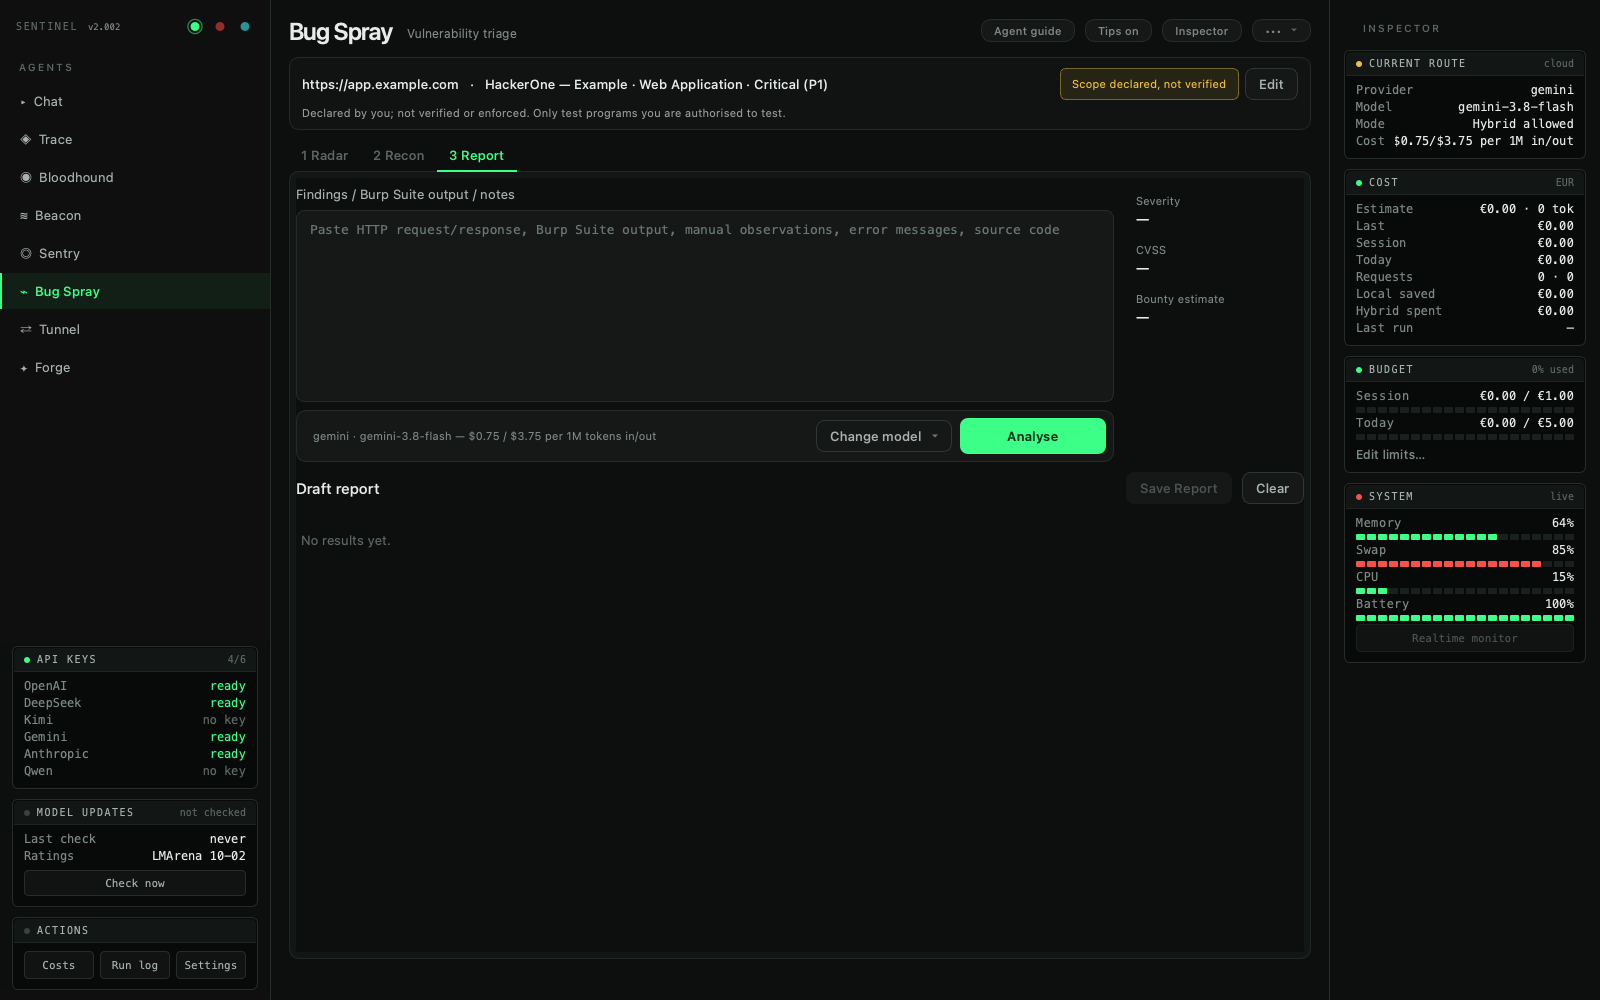
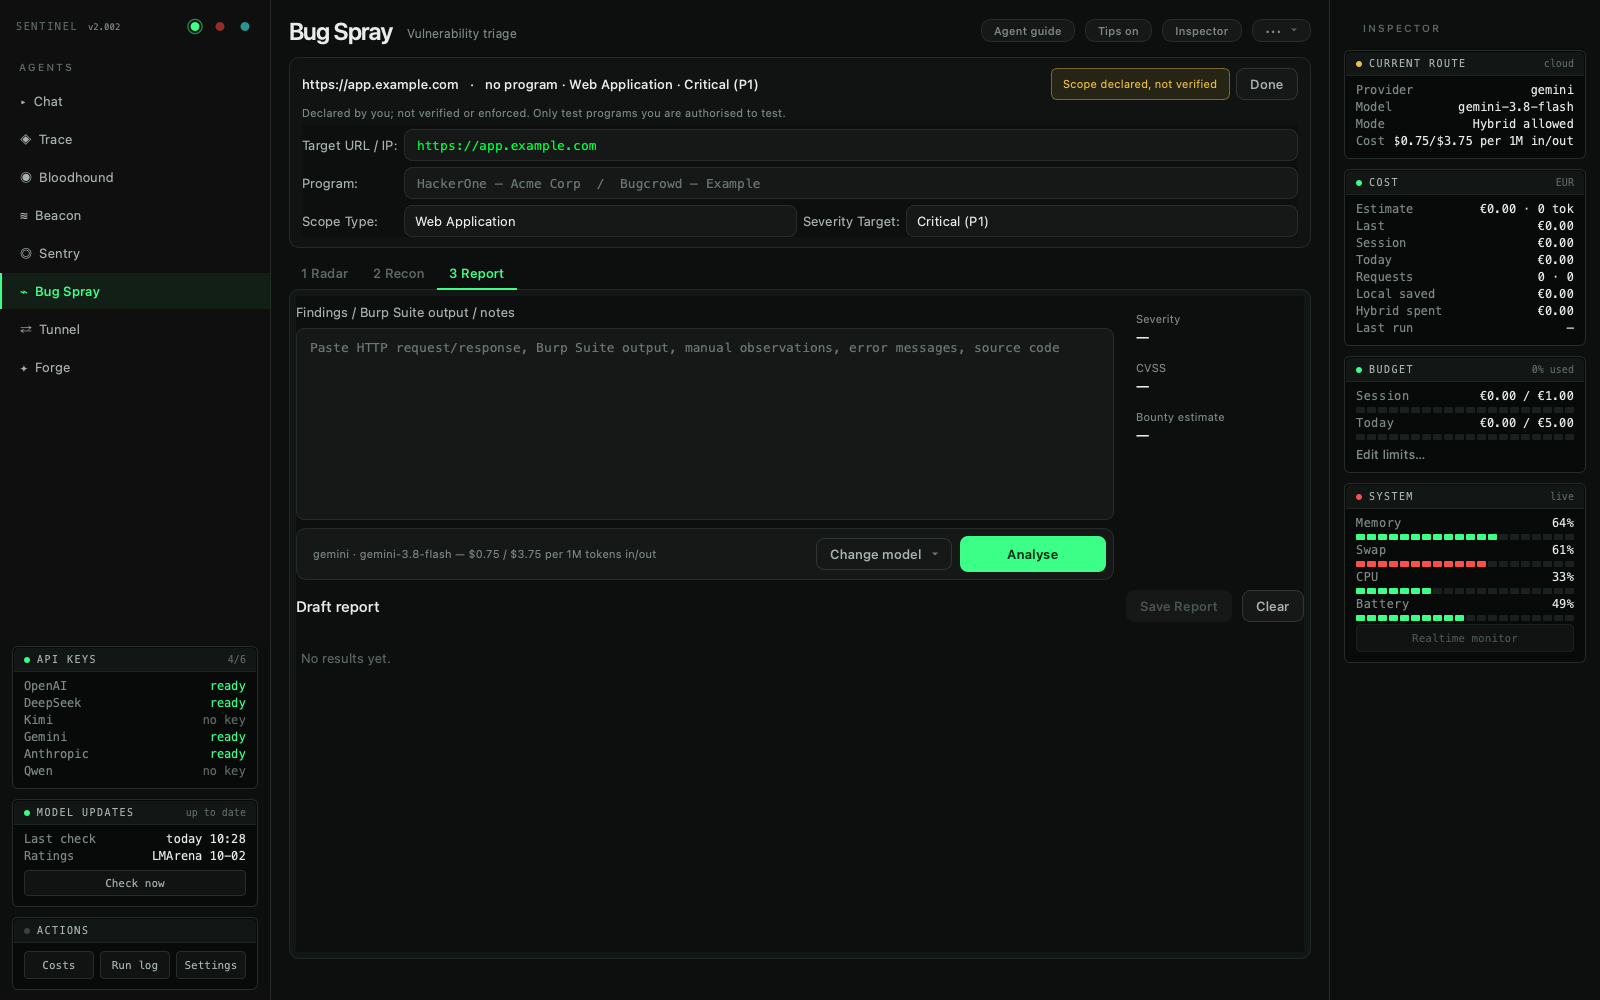
Bug Spray: compact empty target bar, Radar lists fill the tab on whole rows, one frame, neutral Edit/Done
GUI review 2026-11-23 (relayed from the review session at the owner's request).

drafted-by: claude-opus-5-5
verified-by: full pytest suite green; mutation checks on fold and Done style

diff --git a/tests/test_bug_spray_layout.py b/tests/test_bug_spray_layout.py
@@ -47,7 +47,7 @@ def spray(win):
     panel.target_input.clear()
     panel.program_input.clear()
     panel.steps.setCurrentIndex(0)
-    panel.edit_target_btn.setChecked(True)
+    panel.edit_target_btn.setChecked(False)
 
 
 def test_steps_hold_radar_recon_and_report(spray):
@@ -87,14 +87,50 @@ def test_summary_line_follows_the_fields(spray):
     assert spray.target_summary.text().startswith("No target yet")
 
 
-def test_edit_opens_and_closes_the_fields(spray):
-    assert spray.edit_target_btn.isChecked()        # opens expanded: nothing declared
-    assert spray.target_editor.isVisibleTo(spray)
-    spray.edit_target_btn.setChecked(False)
-    assert not spray.target_editor.isVisibleTo(spray)
+def test_empty_target_shows_only_the_target_field(spray):
+    """Compact empty state (GUI review 2026-11-23): one field, not the form."""
+    assert spray.target_bar_state() == "quick"
+    assert spray.target_input.isVisibleTo(spray)
+    for widget in (spray.program_input, spray.scope_box, spray.severity_box):
+        assert not widget.isVisibleTo(spray)
     assert spray.edit_target_btn.text() == "Edit"
-    # Collapsed, the badge and the one-line note stay visible.
+
+
+def test_entering_a_target_folds_the_bar_to_one_line(spray):
+    spray.target_input.setText("https://app.example.com")
+    spray.target_input.editingFinished.emit()
+    assert spray.target_bar_state() == "summary"
+    assert not spray.target_editor.isVisibleTo(spray)
+    assert "https://app.example.com" in spray.target_summary.text()
+    # Folded, the badge and the one-line note stay visible.
     assert spray.scope_badge.isVisibleTo(spray) and spray.scope_note.isVisibleTo(spray)
+
+
+def test_edit_opens_the_whole_form_and_done_closes_it(spray):
+    spray.target_input.setText("https://app.example.com")
+    spray.edit_target_btn.setChecked(True)
+    assert spray.target_bar_state() == "editing"
+    for widget in (spray.target_input, spray.program_input, spray.scope_box,
+                   spray.severity_box):
+        assert widget.isVisibleTo(spray)
+    assert spray.edit_target_btn.text() == "Done"
+    spray.edit_target_btn.setChecked(False)
+    assert spray.target_bar_state() == "summary"
+    # Done with the target cleared: back to the one-field empty state.
+    spray.edit_target_btn.setChecked(True)
+    spray.target_input.clear()
+    spray.edit_target_btn.setChecked(False)
+    assert spray.target_bar_state() == "quick"
+
+
+def test_done_is_not_styled_like_a_primary(spray, win):
+    """Checked, Edit/Done keeps the neutral look; green is for the primary."""
+    spray.edit_target_btn.setChecked(True)
+    assert spray.edit_target_btn.objectName() == "BBEditTarget"
+    sheet = win.styleSheet() or QApplication.instance().styleSheet()
+    block = sheet[sheet.index("QPushButton#BBEditTarget:checked {"):]
+    block = block[:block.index("}")]
+    assert "#3cff88" not in block.lower()
 
 
 def test_scope_warning_keeps_every_fact(spray):
@@ -141,42 +177,60 @@ def test_picking_a_program_on_the_radar_fills_the_program_field(spray):
     assert "Bugcrowd — Example" in spray.target_summary.text()
 
 
+def _fill(feed):
+    for tree in (feed.changes, feed.programs):
+        if tree.topLevelItemCount() == 0:
+            for n in range(40):
+                tree.addTopLevelItem(QTreeWidgetItem([f"row {n}", "x", "y"]))
+
+
 def test_recent_changes_shows_whole_rows_only(spray, win):
     """Six full rows and a seventh cut in half (GUI review 2026-11-22)."""
     win.resize(1600, 1000)
     win.select_agent("bug_bounty")
     feed = spray.program_feed
-    for tree in (feed.changes, feed.programs):
-        if tree.topLevelItemCount() == 0:
-            for n in range(12):
-                tree.addTopLevelItem(QTreeWidgetItem([f"row {n}", "x", "y"]))
+    _fill(feed)
     feed._fit_whole_rows()
     for tree in (feed.changes, feed.programs):
         row = tree.sizeHintForRow(0)
-        visible = tree.height() - feed._chrome_height(tree)
-        assert visible == feed.VISIBLE_ROWS * row, (tree, visible, row)
+        visible = tree.maximumHeight() - feed._chrome_height(tree)
+        assert visible % row == 0 and visible >= feed.MIN_ROWS * row, (tree, visible, row)
 
 
-def test_shown_tree_viewport_is_whole_rows(win):
-    """Measured on screen: the viewport itself, not a computed figure."""
+def test_shown_tree_viewport_is_whole_rows_and_fills_the_tab(win):
+    """Measured on screen: whole rows, and the list takes the tab's height
+    (less than one row left below it) instead of leaving a third empty."""
     win.resize(1600, 1000)
     win.show()
     try:
         win.select_agent("bug_bounty")
         feed = win.panels["bug_bounty"].program_feed
         win.panels["bug_bounty"].steps.setCurrentIndex(0)
+        _fill(feed)
         for _ in range(10):
             QApplication.processEvents()
-        tree = feed.changes
-        if tree.topLevelItemCount() == 0:
-            for n in range(12):
-                tree.addTopLevelItem(QTreeWidgetItem([f"row {n}", "x", "y"]))
         feed._fit_whole_rows()
         for _ in range(5):
             QApplication.processEvents()
-        assert tree.viewport().height() == feed.VISIBLE_ROWS * tree.sizeHintForRow(0)
+        tree = feed.changes
+        row = tree.sizeHintForRow(0)
+        assert tree.viewport().height() % row == 0
+        page = tree.parentWidget()
+        assert page.height() - tree.height() < row
+        assert tree.viewport().height() // row > feed.VISIBLE_ROWS
+        # Shrinking the window re-fits to fewer whole rows.
+        win.resize(1600, 800)
+        for _ in range(10):
+            QApplication.processEvents()
+        assert tree.viewport().height() % row == 0
+        assert page.height() - tree.height() < row
     finally:
         win.hide()
+
+
+def test_radar_has_no_second_frame_or_title(spray):
+    feed = spray.program_feed
+    assert feed.title() == "" and feed.isFlat()
 
 
 def test_fit_is_redone_after_refresh(spray, monkeypatch):

diff --git a/ui/panels/bug_spray_feed.py b/ui/panels/bug_spray_feed.py
@@ -188,14 +188,29 @@ class WatchlistDialog(QDialog):
         self.accept()
 
 
+class _RowFitPage(QWidget):
+    """A list's tab page: re-fits the list to whole rows when resized."""
+
+    def __init__(self, feed: "BugSprayFeed"):
+        super().__init__()
+        self._feed = feed
+
+    def resizeEvent(self, event) -> None:
+        super().resizeEvent(event)
+        self._feed._fit_whole_rows()
+
+
 class BugSprayFeed(QGroupBox):
     """Shows saved programs and changes; only `scan` uses a child process."""
 
     program_selected = Signal(str)
 
     def __init__(self, parent: QWidget | None = None):
-        super().__init__("Program radar", parent)
+        # No title or frame: the feed is the whole "1 Radar" tab, whose own
+        # frame and label already say what it is (GUI review 2026-11-23).
+        super().__init__("", parent)
         self.setObjectName("BugSprayFeed")
+        self.setFlat(True)
         self._started = False
         self._last_scan: dict | None = None
         self._settings = config.load()
@@ -254,7 +269,7 @@ class BugSprayFeed(QGroupBox):
         self.changes.header().setSectionResizeMode(2, QHeaderView.Stretch)
         self.changes.currentItemChanged.connect(self._selected)
         self.changes.itemDoubleClicked.connect(lambda *_: self.show_details())
-        self.tabs.addTab(self.changes, "Recent changes")
+        self.tabs.addTab(self._row_fit_page(self.changes), "Recent changes")
         self.programs = QTreeWidget()
         self.programs.setHeaderLabels(["Program", "Platform", "Reward", "Scope"])
         self.programs.setRootIsDecorated(False)
@@ -263,8 +278,8 @@ class BugSprayFeed(QGroupBox):
             self.programs.header().setSectionResizeMode(column, QHeaderView.ResizeToContents)
         self.programs.currentItemChanged.connect(self._selected)
         self.programs.itemDoubleClicked.connect(lambda *_: self.show_details())
-        self.tabs.addTab(self.programs, "Programs")
-        layout.addWidget(self.tabs)
+        self.tabs.addTab(self._row_fit_page(self.programs), "Programs")
+        layout.addWidget(self.tabs, 1)
 
         self.details = QTextBrowser()
         self.details.setOpenExternalLinks(False)
@@ -287,13 +302,22 @@ class BugSprayFeed(QGroupBox):
         actions.addWidget(self.use_button)
         actions.addStretch()
         layout.addLayout(actions)
-        layout.addStretch(1)
-        # The feed has its own "1 Radar" tab now, so no height cap; the lists
-        # instead show a whole number of rows (no row cut through the middle).
+        # The lists stretch to fill the tab but stop on a whole row (no row
+        # cut through the middle); the remainder, under one row, stays below.
         self.changes.setHorizontalScrollBarPolicy(Qt.ScrollBarAlwaysOff)
         self._fit_whole_rows()
 
-    VISIBLE_ROWS = 8
+    VISIBLE_ROWS = 8   # used until the page has a laid-out height
+    MIN_ROWS = 3
+
+    def _row_fit_page(self, tree: QTreeWidget) -> QWidget:
+        page = _RowFitPage(self)
+        page_layout = QVBoxLayout(page)
+        page_layout.setContentsMargins(0, 0, 0, 0)
+        page_layout.setSpacing(0)
+        page_layout.addWidget(tree, 1)      # takes the height, up to its cap
+        page_layout.addStretch(0)           # the remainder, under one row
+        return page
 
     def _row_height(self, tree: QTreeWidget) -> int:
         if tree.topLevelItemCount():
@@ -313,19 +337,30 @@ class BugSprayFeed(QGroupBox):
         header = max(tree.header().sizeHint().height(), margins.top())
         return header + margins.bottom() + 2 * tree.frameWidth()
 
+    def _rows_that_fit(self, tree: QTreeWidget, chrome: int, row: int) -> int:
+        page = tree.parentWidget()
+        if page is None or not page.isVisible() or page.height() <= 0:
+            return self.VISIBLE_ROWS
+        return max(self.MIN_ROWS, (page.height() - chrome) // row)
+
     def _fit_whole_rows(self) -> None:
-        """Size each list to its header plus VISIBLE_ROWS full rows.
+        """Size each list to its header plus as many full rows as its tab
+        page has room for (at least MIN_ROWS).
 
         Row height is only final once the style sheet has polished the items,
-        so this runs again after the feed is shown, and measures the chrome
-        (header, frame, margins) from the laid-out widget when it can.
+        so this runs again after the feed is shown and whenever a page is
+        resized, and measures the chrome (header, frame, margins) from the
+        laid-out widget when it can. A maximum, not a fixed height, so the
+        window can still shrink.
         """
         for tree in (self.changes, self.programs):
             if tree.isVisible() and tree.viewport().height() > 0:
                 chrome = tree.height() - tree.viewport().height()
             else:
                 chrome = self._chrome_height(tree)
-            tree.setFixedHeight(chrome + self.VISIBLE_ROWS * self._row_height(tree))
+            row = self._row_height(tree)
+            tree.setMinimumHeight(chrome + self.MIN_ROWS * row)
+            tree.setMaximumHeight(chrome + self._rows_that_fit(tree, chrome, row) * row)
 
     def showEvent(self, event) -> None:
         super().showEvent(event)

diff --git a/ui/panels/bug_bounty.py b/ui/panels/bug_bounty.py
@@ -171,6 +171,7 @@ class BugBountyPanel(AgentPanel):
         self.scope_badge.setToolTip(self.SCOPE_NOTE)
         summary_row.addWidget(self.scope_badge)
         self.edit_target_btn = QPushButton("Edit")
+        self.edit_target_btn.setObjectName("BBEditTarget")
         self.edit_target_btn.setCheckable(True)
         self.edit_target_btn.toggled.connect(self._set_target_editing)
         summary_row.addWidget(self.edit_target_btn)
@@ -197,12 +198,14 @@ class BugBountyPanel(AgentPanel):
         self.target_input.setPlaceholderText("https://target.example.com  or  10.0.0.1")
         setup_layout.addWidget(self.target_input, 0, 1, 1, 3)
 
-        setup_layout.addWidget(QLabel("Program:"), 1, 0)
+        program_label = QLabel("Program:")
+        setup_layout.addWidget(program_label, 1, 0)
         self.program_input = QLineEdit()
         self.program_input.setPlaceholderText("HackerOne — Acme Corp  /  Bugcrowd — Example")
         setup_layout.addWidget(self.program_input, 1, 1, 1, 3)
 
-        setup_layout.addWidget(QLabel("Scope Type:"), 2, 0)
+        scope_label = QLabel("Scope Type:")
+        setup_layout.addWidget(scope_label, 2, 0)
         self.scope_box = MenuComboBox()
         self.scope_box.addItems([
             "Web Application", "API / REST", "Mobile (Android)", "Mobile (iOS)",
@@ -210,13 +213,17 @@ class BugBountyPanel(AgentPanel):
         ])
         setup_layout.addWidget(self.scope_box, 2, 1)
 
-        setup_layout.addWidget(QLabel("Severity Target:"), 2, 2)
+        severity_label = QLabel("Severity Target:")
+        setup_layout.addWidget(severity_label, 2, 2)
         self.severity_box = MenuComboBox()
         self.severity_box.addItems(
             ["Critical (P1)", "High (P2)", "Medium (P3)", "Low (P4)", "Informational"])
         setup_layout.addWidget(self.severity_box, 2, 3)
         setup_layout.setColumnStretch(1, 1)
         setup_layout.setColumnStretch(3, 1)
+        # Shown by Edit only; the empty state asks for the target alone.
+        self._target_details = (program_label, self.program_input, scope_label,
+                                self.scope_box, severity_label, self.severity_box)
         bar_layout.addWidget(self.target_editor)
         layout.addWidget(self.target_bar)
 
@@ -364,13 +371,30 @@ class BugBountyPanel(AgentPanel):
         self.status_label.setStyleSheet("font-size: 12px; color: #888;")
         layout.addWidget(self.status_label)
 
+        self.target_input.editingFinished.connect(self._leave_quick_target)
         self._refresh_target_summary()
-        # Nothing declared yet: open the editor so the first thing to do is visible.
-        self.edit_target_btn.setChecked(True)
+        # Nothing declared yet: show the target field alone (one line), so the
+        # first thing to do is visible without the whole form; it folds away
+        # once a target is entered. Edit opens the full form.
+        self._set_target_editing(False)
 
     def _set_target_editing(self, editing: bool) -> None:
-        self.target_editor.setVisible(editing)
+        quick = not editing and not self.target_input.text().strip()
+        self.target_editor.setVisible(editing or quick)
+        for widget in self._target_details:
+            widget.setVisible(editing)
         self.edit_target_btn.setText("Done" if editing else "Edit")
+
+    def _leave_quick_target(self) -> None:
+        """Target entered in the one-line empty state: fold to the summary."""
+        if not self.edit_target_btn.isChecked() and self.target_input.text().strip():
+            self.target_editor.setVisible(False)
+
+    def target_bar_state(self) -> str:
+        """'quick' (target field only), 'editing' (full form) or 'summary'."""
+        if self.edit_target_btn.isChecked():
+            return "editing"
+        return "quick" if self.target_editor.isVisibleTo(self) else "summary"
 
     def _refresh_target_summary(self) -> None:
         """target · program · scope type · severity, as one line."""

diff --git a/ui/style.py b/ui/style.py
@@ -611,6 +611,23 @@ _GREEN_STYLESHEET = """
             font-size: 11px;
             background: transparent;
         }
+        QGroupBox#BugSprayFeed {
+            border: none;
+            margin-top: 0px;
+            padding: 8px 4px 4px 4px;
+        }
+        /* Edit / Done toggles the target editor: neutral, never green, so it
+           does not read as a second primary next to Run Nmap or Analyse. */
+        QPushButton#BBEditTarget:checked {
+            background-color: #151816;
+            border: 1px solid #2f3733;
+            color: #a8b3ad;
+        }
+        QPushButton#BBEditTarget:checked:hover {
+            background-color: #1b201d;
+            border: 1px solid #3d4842;
+            color: #ffffff;
+        }
         QFrame#BBTargetBar {
             background-color: #101311;
             border: 1px solid #232a26;

diff --git a/docs/agents/bug_bounty.md b/docs/agents/bug_bounty.md
@@ -17,7 +17,7 @@ The screen is a target bar that stays at the top, then three step tabs: **1 Rada
 
 | Control | Purpose |
 |---|---|
-| Target bar | One summary line (target · program · scope type · severity), the badge **Scope declared, not verified** and **Edit**, which opens the four fields below in place (open on start, while nothing is declared). Under it one line: declared by you, not verified or enforced; only test programs you are authorised to test (full text in its tooltip). |
+| Target bar | One summary line (target · program · scope type · severity), the badge **Scope declared, not verified** and **Edit**, which opens the four fields below in place. With no target yet, only the target field shows (one line); it folds into the summary once a target is entered. Under it one line: declared by you, not verified or enforced; only test programs you are authorised to test (full text in its tooltip). |
 | Program radar (1 Radar) | Search saved programs and recent changes; open the live page or fill the Program field; **Scan now** refreshes the public listings. Details below. |
 | Target URL / IP | The asset the report is about. Free text; not validated. |
 | Program | Bug bounty program name. Free text; not verified. |

diff --git a/docs/training/bug_spray.md b/docs/training/bug_spray.md
@@ -179,7 +179,7 @@ one reflected-input observation into a submittable report.
 
 1. On the **1 Radar** tab, filter for the program if you track it, or just type the
    name into **Program** in the target bar. Radar never contacts the program's assets.
-2. In the target bar (press **Edit** if it is closed), enter the target, program and scope type. Set
+2. In the target bar, enter the target (on a fresh start only that field shows), then press **Edit** for the program and scope type. Set
    **Severity Target** to what you expect (it is only a hint to the model). Remember the badge: scope is
    declared by you and is not verified or enforced.
 3. Skip the **2 Recon** tab: leave **Nmap Recon Scan** empty and do not press **Run Nmap** for this example;

diff --git a/CHANGELOG.md b/CHANGELOG.md
@@ -14,6 +14,7 @@ and the git log, and is not back-filled here.
 ## Unreleased
 
 ### Changed
+- **Bug Spray's target bar and Radar are tighter** (GUI review 2026-11-23). With no target the bar shows only the target field and folds to its one-line summary once a target is entered; the Radar lists stretch to fill the tab and still stop on a whole row; the Radar tab has one frame (no inner "Program radar" box); Edit/Done stays neutral instead of green.
 - **Beacon, Trace, Sentry and Forge are quieter.** Every agent's run bar now
   shows the model and its price, with provider and model under **Change model**.
   Beacon's Connection preflight is a collapsed row until you run it, and its five
